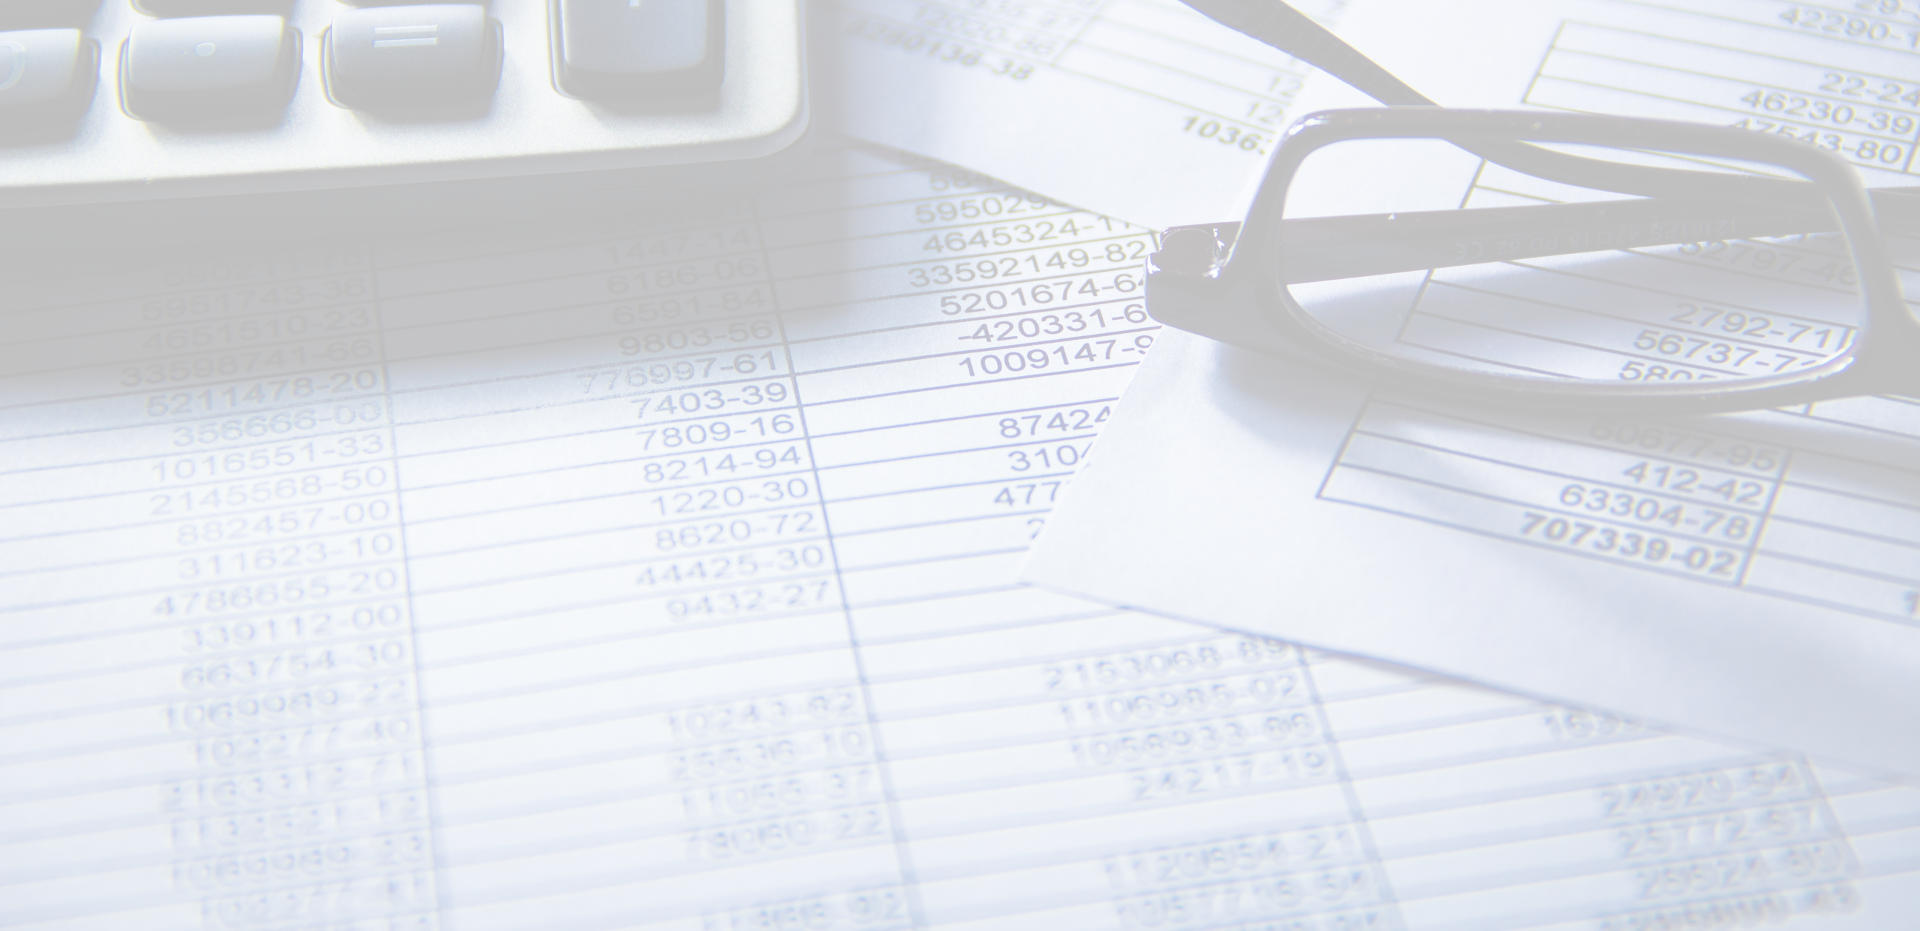
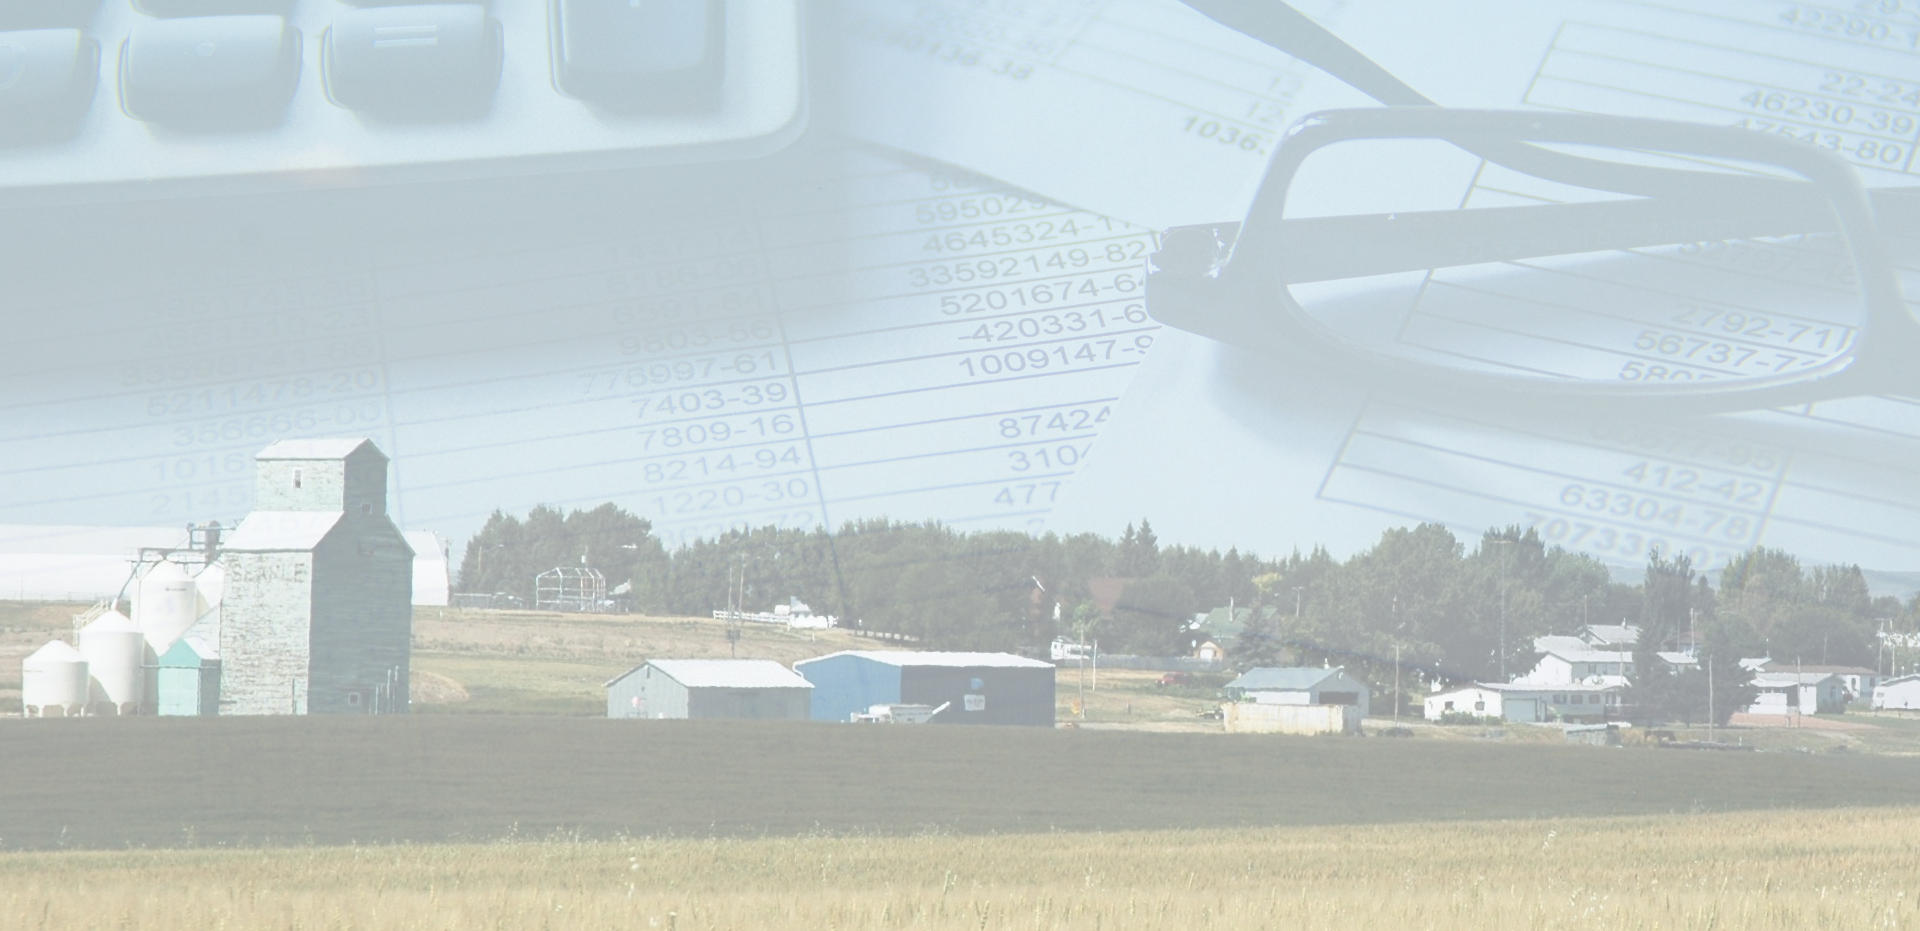
Fix text clipping to parent rectangles

diff --git a/client/treemap.js b/client/treemap.js
@@ -149,6 +149,10 @@ Meteor.a4a_functions.draw_treemap = function (root, selector) {
     return lbl;
   }
 
+  function clip_id (d) {
+    return 'clip-' + d.name.replace(/[^A-Za-z0-9]/g, '');
+  }
+
   function display (d) {
     grandparent
         .datum(d.parent)
@@ -164,6 +168,13 @@ Meteor.a4a_functions.draw_treemap = function (root, selector) {
         .data(d.data)
       .enter().append("g");
 
+    // Add a <defs> element to store the clipPath for each top-level element
+    g.append('defs')
+      .append('clipPath') // containing a <clipPath> element
+        .attr('id', clip_id) // with a generated id to be referenced by url()
+      .append('rect') // Add a rectangle to the path
+        .call(tmrect); // with the dimensions derived from each data point
+
     g.filter(function(d) { return d.data; })
         .classed("children", true)
         .on("click", transition);
@@ -173,6 +184,7 @@ Meteor.a4a_functions.draw_treemap = function (root, selector) {
           $('.grandparent').d3Click();
         });
 
+    console.log('g.child');
     g.selectAll(".child")
         .data(function(d) { return d.data || [d]; })
       .enter().append("rect")
@@ -190,6 +202,7 @@ Meteor.a4a_functions.draw_treemap = function (root, selector) {
         })
         .call(tmrect);
 
+    console.log('g.parent');
     g.append("rect")
         .attr("class", "parent")
         .style('fill', function (d) {
@@ -245,8 +258,16 @@ Meteor.a4a_functions.draw_treemap = function (root, selector) {
       // Transition to the new view.
       t1.selectAll("text").call(tmtext).style("fill-opacity", 0);
       t2.selectAll("text").call(tmtext).style("fill-opacity", 1);
+
+      console.log('t1 all rects');
       t1.selectAll("rect").call(tmrect);
+
+      console.log('t2 all rects');
       t2.selectAll("rect").call(tmrect);
+
+      //t1.selectAll()
+
+      // <rect x="942.7907827278599" y="583.0082864745538" width="149.25940465949623" height="114.99171352544624"></rect>
 
       // Remove the old node when the transition is finished.
       t1.remove().each("end", function() {
@@ -260,7 +281,9 @@ Meteor.a4a_functions.draw_treemap = function (root, selector) {
 
   function tmtext(text) {
     text.attr("x", function(d) { return x(d.x) + 6; })
-        .attr("y", function(d) { return y(d.y) + 6; });
+        .attr("y", function(d) { return y(d.y) + 6; })
+        .attr('width', function (d) { return x(d.x + d.dx) - x(d.x); })
+        .attr('clip-path', function (d) { return 'url(#' + clip_id(d) + ')'; });
   }
 
   function tmrect(rect) {
@@ -268,6 +291,7 @@ Meteor.a4a_functions.draw_treemap = function (root, selector) {
         .attr("y", function(d) { return y(d.y); })
         .attr("width", function(d) { return x(d.x + d.dx) - x(d.x); })
         .attr("height", function(d) { return y(d.y + d.dy) - y(d.y); });
+    console.log(rect);
   }
 
   function name(d) {

diff --git a/client/templates/home.html b/client/templates/home.html
@@ -54,8 +54,10 @@
     <hr>
 
     <footer>
-      <p class="pull-right attribution">Banner image by
-        <a href="https://www.flickr.com/photos/teegardin/5537894072">Ken Teegardin</a></p>
+      <p class="pull-right attribution">Banner image includes works by
+        <a href="https://www.flickr.com/photos/teegardin/5537894072">Ken Teegardin</a>
+        and <a href="https://commons.wikimedia.org/wiki/File:Village_Milo_Alberta.jpg">Wikimedia user Migco</a>
+      </p>
       <p><a href="https://www.centrality.ca/"><span class="centrality">&#9632;</span>
         Centrality Data Science, 2015</a></p>
     </footer>
